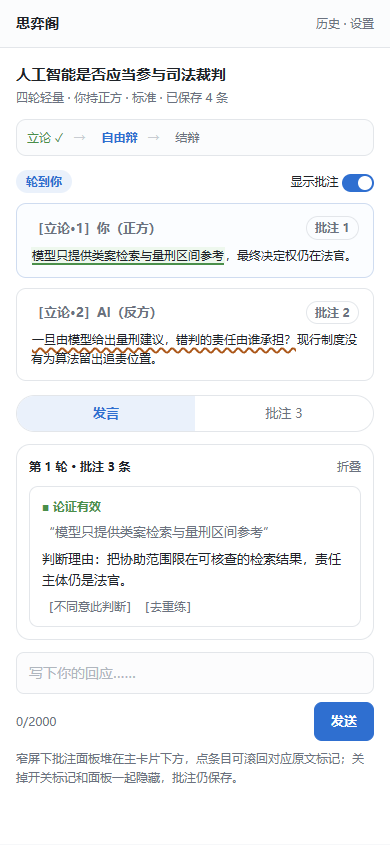
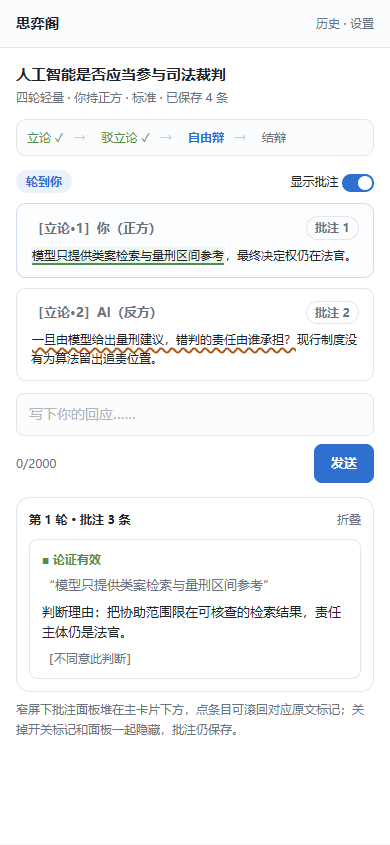
fix: 修正 V2 页面设计与 429 提示并交付并行设计稿

diff --git a/docs/product/ui/mockup/index.html b/docs/product/ui/mockup/index.html
@@ -129,8 +129,8 @@
       <div style="flex:1">
         <div class="pane-title">② 辩题与背景</div>
         <div class="row" style="gap:16px">
-          <label class="small"><span class="dot on" style="width:12px;height:12px"></span> 预设辩题</label>
-          <label class="small"><span class="dot" style="width:12px;height:12px"></span> 自定义辩题（仅本人可见）</label>
+          <label class="small"><span class="dot" style="width:12px;height:12px"></span> 预设辩题</label>
+          <label class="small"><span class="dot on" style="width:12px;height:12px"></span> 自定义辩题（仅本人可见）</label>
         </div>
         <div class="input" style="margin-top:10px">人工智能是否应当参与司法裁判</div>
         <div class="counter">14/200</div>
@@ -143,7 +143,7 @@
           <label class="small"><span class="dot on" style="width:12px;height:12px"></span> 正方</label>
           <label class="small"><span class="dot" style="width:12px;height:12px"></span> 反方</label>
         </div>
-        <p class="note">你持正方 → 你先立论、AI 先结辩</p>
+        <p class="note">四轮轻量练习中，每轮由你先发言，AI 回复。</p>
         <div class="row" style="gap:10px;margin-top:10px">
           <span class="tag">入门</span><span class="tag" style="background:var(--accent-soft);color:var(--accent);border-color:var(--accent)">标准</span><span class="tag">进阶</span>
         </div>
@@ -214,7 +214,7 @@
         <div class="quote">“模型只提供类案检索与量刑区间参考”</div>
         <div class="body"><b>判断理由：</b>把协助范围限在可核查的检索结果上，责任主体仍是法官，回应了对方提出的追责难题。</div>
         <div class="body"><b>改进方向：</b>补一句这个范围由谁核定、出错时如何追溯。</div>
-        <div class="small muted" style="margin-top:6px">［不同意此判断］［去重练］</div>
+        <div class="small muted" style="margin-top:6px">［不同意此判断］</div>
       </div>
 
       <div class="anno">
@@ -222,7 +222,7 @@
         <div class="quote">“一旦由模型给出量刑建议，错判的责任由谁承担？”</div>
         <div class="body"><b>判断理由：</b>把追责问题直接指向制度缺口，反击有力。</div>
         <div class="body"><b>改进方向：</b>补一句现行制度里“谁为法官的错误负责”，再对比算法场景。</div>
-        <div class="small muted" style="margin-top:6px">［不同意此判断］［去重练］</div>
+        <div class="small muted" style="margin-top:6px">［不同意此判断］</div>
       </div>
 
       <div class="anno">
@@ -230,7 +230,7 @@
         <div class="quote">“责任链条没有被切断”</div>
         <div class="body"><b>判断理由：</b>这是结论，但本段没有说明法官如何核对建议。</div>
         <div class="body"><b>改进方向：</b>补一个可核查的动作，例如要求法官书面记录采纳或驳回的理由。</div>
-        <div class="small muted" style="margin-top:6px">［不同意此判断］［去重练］</div>
+        <div class="small muted" style="margin-top:6px">［不同意此判断］</div>
       </div>
 
       <div class="divider"></div>
@@ -318,9 +318,9 @@
     <div class="between"><h3 style="font-size:16px">历史会话</h3><span class="small muted">活动中的会话可继续；已完成可复盘与重练</span></div>
     <table style="margin-top:12px">
       <tr><th>辩题</th><th>模式</th><th>立场</th><th>时间</th><th>阶段 / 状态</th><th>操作</th></tr>
-      <tr><td>人工智能是否应当参与司法裁判</td><td>四轮轻量</td><td>正方</td><td>11-19 21:04</td><td>自由辩 2/10 · 进行中</td><td><span class="btn">继续</span></td></tr>
+      <tr><td>人工智能是否应当参与司法裁判</td><td>四轮轻量</td><td>正方</td><td>11-19 21:04</td><td>自由辩 · 进行中</td><td><span class="btn">继续</span></td></tr>
       <tr><td>短视频是否削弱深度阅读</td><td>四轮轻量</td><td>反方</td><td>11-18 20:11</td><td>已完成</td><td><span class="btn">复盘</span> <span class="btn">重练</span> <span class="btn">PDF</span></td></tr>
-      <tr><td>大学排名是否应当取消</td><td>四轮轻量</td><td>正方</td><td>11-17 19:02</td><td><span class="tag" style="border-color:#e0b4b4;color:#a83a3a">已完成 · 复盘失败</span></td><td><span class="btn">查看</span> <span class="btn">重试复盘</span></td></tr>
+      <tr><td>大学排名是否应当取消</td><td>四轮轻量</td><td>正方</td><td>11-17 19:02</td><td><span class="tag" style="border-color:#e0b4b4;color:#a83a3a">已完成 · 复盘失败</span></td><td><span class="btn">查看复盘</span> <span class="btn">重试复盘</span></td></tr>
       <tr><td>标准化考试是否仍有效</td><td>训练赛</td><td>反方</td><td>11-15 18:40</td><td>结辩 · 进行中</td><td><span class="btn">继续</span></td></tr>
       <tr><td>旧版四轮标准赛（V1）</td><td>四轮标准赛</td><td>正方</td><td>10-30 15:22</td><td>已完成</td><td><span class="btn">查看原文</span></td></tr>
     </table>
@@ -385,7 +385,7 @@
       <h3 style="font-size:15px">人工智能是否应当参与司法裁判</h3>
       <p class="small muted" style="margin:2px 0 12px">四轮轻量 · 你持正方 · 标准 · 已保存 4 条</p>
       <div class="phasetrack" style="padding:8px 10px;overflow:hidden">
-        <span class="ph done" style="font-size:12px">立论 ✓</span><span class="ph now" style="font-size:12px">自由辩</span><span class="ph" style="font-size:12px">结辩</span>
+        <span class="ph done" style="font-size:12px">立论 ✓</span><span class="ph done" style="font-size:12px">驳立论 ✓</span><span class="ph now" style="font-size:12px">自由辩</span><span class="ph" style="font-size:12px">结辩</span>
       </div>
       <div class="row" style="justify-content:space-between;align-items:center;margin-bottom:10px">
         <span class="badge">轮到你</span><span class="small">显示批注 <span class="switch sm"></span></span>
@@ -394,18 +394,17 @@
         <p class="small"><span class="marker m-strength">模型只提供类案检索与量刑区间参考</span>，最终决定权仍在法官。</p></div>
       <div class="msg"><h4><span>［立论·2］AI（反方）</span><span class="tag">批注 2</span></h4>
         <p class="small"><span class="marker m-gap">一旦由模型给出量刑建议，错判的责任由谁承担？</span>现行制度没有为算法留出追责位置。</p></div>
-      <div class="seg" style="margin-top:14px"><div class="on">发言</div><div>批注 3</div></div>
-      <div class="sheet">
+      <div class="input" style="margin-top:12px;color:#b0b6be">写下你的回应……</div>
+      <div class="between" style="margin-top:8px"><span class="small muted">0/2000</span><span class="btn primary">发送</span></div>
+      <div class="sheet" style="margin-top:14px">
         <div class="between"><span class="small" style="font-weight:700">第 1 轮 · 批注 3 条</span><span class="small muted">折叠</span></div>
         <div class="anno" style="margin-top:10px">
           <div class="head"><span class="lbl s">■ 论证有效</span></div>
           <div class="quote">“模型只提供类案检索与量刑区间参考”</div>
           <div class="body small">判断理由：把协助范围限在可核查的检索结果，责任主体仍是法官。</div>
-          <div class="small muted" style="margin-top:6px">［不同意此判断］［去重练］</div>
+          <div class="small muted" style="margin-top:6px">［不同意此判断］</div>
         </div>
       </div>
-      <div class="input" style="margin-top:12px;color:#b0b6be">写下你的回应……</div>
-      <div class="between" style="margin-top:8px"><span class="small muted">0/2000</span><span class="btn primary">发送</span></div>
       <p class="note">窄屏下批注面板堆在主卡片下方，点条目可滚回对应原文标记；关掉开关标记和面板一起隐藏，批注仍保存。</p>
     </div>
   </div>

diff --git a/frontend/src/api/client.test.ts b/frontend/src/api/client.test.ts
@@ -109,15 +109,36 @@ describe('统一业务 client', () => {
   })
 
   // 429 三类原因各自有独立文案：分钟防刷可稍后重试，并发占用要等当前生成，
-  // 日额度用尽当日不再重试，不能都显示成“请求过于频繁”。
+  // 日额度用尽只保留受控提示。日额度由服务端按 UTC 日重置，“明天再试”在中国
+  // 时区 07:59 可能一分钟后即可用；Retry-After 只是额度窗口重开的秒数，
+  // 所以该码不拼接“N 秒后重试”，但仍把秒数保留在 metadata（不自动重试）。
   it.each([
-    ['rate_limited', '请求过于频繁'],
-    ['generation_busy', '生成服务繁忙'],
-    ['daily_quota_exhausted', '今日生成次数已用完'],
-  ])('429 按业务码给出可区分的提示：%s', async (code, expected) => {
-    fetchMock.mockResolvedValue(failure(429, code, { 'Retry-After': '30' }))
+    ['rate_limited', '请求过于频繁，请稍后手动重试。'],
+    ['generation_busy', '生成服务繁忙，请稍后手动重试。'],
+    ['daily_quota_exhausted', '今日生成次数已用完，可查看历史。'],
+  ])('429 无 Retry-After 时展示完整受控文案：%s', async (code, expected) => {
+    fetchMock.mockResolvedValue(failure(429, code))
     await expect(createApiClient().request('/api/v1/example', ok)).rejects.toMatchObject({
-      status: 429, code, message: expect.stringContaining(expected),
+      kind: 'http', status: 429, code, retryAfterSeconds: undefined, message: expected,
+    })
+  })
+
+  it.each([
+    ['rate_limited', '请求过于频繁，请稍后手动重试。请在 12 秒后重试。', 12],
+    ['generation_busy', '生成服务繁忙，请稍后手动重试。请在 12 秒后重试。', 12],
+    ['daily_quota_exhausted', '今日生成次数已用完，可查看历史。', 12],
+  ])('429 带有效 Retry-After 时文案按业务码区分、秒数入 metadata：%s', async (code, expected, retryAfterSeconds) => {
+    fetchMock.mockResolvedValue(failure(429, code, { 'Retry-After': '12' }))
+    await expect(createApiClient().request('/api/v1/example', ok)).rejects.toMatchObject({
+      kind: 'http', status: 429, code, retryAfterSeconds, message: expected,
+    })
+  })
+
+  it('日额度用尽的 Retry-After 不合约时只忽略秒数，不改受控文案', async () => {
+    fetchMock.mockResolvedValue(failure(429, 'daily_quota_exhausted', { 'Retry-After': 'tomorrow' }))
+    await expect(createApiClient().request('/api/v1/example', ok)).rejects.toMatchObject({
+      kind: 'http', status: 429, code: 'daily_quota_exhausted', retryAfterSeconds: undefined,
+      message: '今日生成次数已用完，可查看历史。',
     })
   })
 

diff --git a/frontend/src/api/client.ts b/frontend/src/api/client.ts
@@ -116,7 +116,9 @@ const errorMessages: Record<string, string> = {
   request_too_large: '请求内容过大，请缩短后重试。',
   rate_limited: '请求过于频繁，请稍后手动重试。',
   generation_busy: '生成服务繁忙，请稍后手动重试。',
-  daily_quota_exhausted: '今日生成次数已用完，可查看历史或明天再试。',
+  // 日额度按服务端 UTC 日重置，“明天再试”在中国时区 07:59 可能一分钟后即可用，
+  // 因此只保留受控提示；Retry-After 仍解析进 metadata，但不拼进文案（不自动重试）。
+  daily_quota_exhausted: '今日生成次数已用完，可查看历史。',
   dependency_unavailable: '服务暂时不可用，请稍后手动重试。',
   internal_error: '服务发生错误，请稍后手动重试。',
   model_error: 'AI 回复生成失败，请查询会话状态。',
@@ -137,7 +139,11 @@ function businessError(value: unknown, response: Response, id: string): ApiError
   const seconds = header !== null && /^\d+$/.test(header) ? Number(header) : NaN
   const retryAfterSeconds = Number.isSafeInteger(seconds) && seconds >= 0 ? seconds : undefined
   const message = Object.hasOwn(errorMessages, value.error.code) ? errorMessages[value.error.code]! : '请求失败，请稍后手动重试。'
-  return new ApiError('http', retryAfterSeconds === undefined ? message : `${message}请在 ${retryAfterSeconds} 秒后重试。`, {
+  // 日额度用尽不拼重试提示：该码的 Retry-After 是 UTC 日窗口重开的秒数，
+  // 按秒提示会让人误以为马上能重试；秒数仍作为 metadata 保留，供上层判断。
+  const waits = value.error.code !== 'daily_quota_exhausted'
+  const text = retryAfterSeconds === undefined || !waits ? message : `${message}请在 ${retryAfterSeconds} 秒后重试。`
+  return new ApiError('http', text, {
     status: response.status, code: value.error.code, requestId: id, retryAfterSeconds,
   })
 }

diff --git a/backend/internal/debate/model.go b/backend/internal/debate/model.go
@@ -161,14 +161,14 @@ type Turn struct {
 	// 不属于正式轮次状态机：它不参与 generating/completed/failed 的判断，
 	// 也不改变完成的轮数或会话状态。默认 false，旧行保持原状。
 	// 该字段不进入 TurnDTO，读取批注统一走独立接口。
-	AnnotationEligible bool       `json:"-" gorm:"column:annotation_eligible"`
-	ModelName          *string    `json:"-"`
-	PromptVersion      *string    `json:"-"`
-	InputTokens        *uint64    `json:"-"`
-	OutputTokens       *uint64    `json:"-"`
-	LatencyMS          *uint64    `json:"-"`
-	CreatedAt          time.Time  `json:"-"`
-	Messages           []Message  `json:"-" gorm:"-"`
+	AnnotationEligible bool      `json:"-" gorm:"column:annotation_eligible"`
+	ModelName          *string   `json:"-"`
+	PromptVersion      *string   `json:"-"`
+	InputTokens        *uint64   `json:"-"`
+	OutputTokens       *uint64   `json:"-"`
+	LatencyMS          *uint64   `json:"-"`
+	CreatedAt          time.Time `json:"-"`
+	Messages           []Message `json:"-" gorm:"-"`
 }
 
 func (Turn) TableName() string { return "debate_turns" }

diff --git a/backend/internal/debate/repository.go b/backend/internal/debate/repository.go
@@ -336,7 +336,8 @@ func (r *Repository) ClaimRetry(ctx context.Context, uid, debateID, turnID, expe
 	}
 	return
 }
-func currentTurn(tx *gorm.DB, d Debate, t Turn) (Turn, error) {	var current Turn
+func currentTurn(tx *gorm.DB, d Debate, t Turn) (Turn, error) {
+	var current Turn
 	e := tx.Clauses(clause.Locking{Strength: "UPDATE"}).Where("id = ? AND debate_id = ?", t.ID, d.ID).First(&current).Error
 	if e != nil {
 		return current, dependency(e, false)
@@ -365,6 +366,7 @@ func metadata(usage ai.Usage, m ai.Metadata) map[string]any {
 	}
 	return values
 }
+
 // Complete 提交正式轮次。eligible 决定本次完成 UPDATE 是否同时写入批注资格：
 // 资格标志只是“本次切片允许生成批注”的标记，不参与轮次状态、完成轮数或会话状态的任何计算。
 func (r *Repository) Complete(ctx context.Context, uid uint64, d Debate, t Turn, result ai.Result, eligible bool) (detail Detail, err error) {

diff --git a/docs/product/ui/01-global.md b/docs/product/ui/01-global.md
@@ -29,7 +29,7 @@
 
 | 数据 | 产生处 | 消费处 | 事实源 | 状态 |
 | --- | --- | --- | --- | --- |
-| 模式、立场、强度、流派 | 开始练习（创建时） | 工作台、复盘、历史、PDF | 服务端创建结果，创建后不可改 | 立场与流派 `[已实现]`；模式、强度目标态 |
+| 模式、立场、强度 | 开始练习（创建时） | 工作台、复盘、历史、PDF | 服务端创建结果，创建后不可改 | 立场 `[已实现]`；模式、强度目标态 |
 | 辩题与背景快照 | 开始练习（创建时） | 工作台、历史、复盘、PDF | 会话内快照，创建后不可改 | `[已实现]` |
 | 当前阶段、回合、发言方 | 服务端推进 | 工作台、历史 | 服务端权威阶段进度（[PRD §3.7](../PRD.md#37-目标状态模型待实施技术目标)） | 训练赛目标态 |
 | 批注、异议、争点卡 | 分析结果与用户编辑 | 工作台、复盘、PDF | 服务端保存值；人工编辑优先（[PRD §6.6](../PRD.md#66-人工编辑与-ai-更新的优先级)） | 批注 `[已实现]`；异议、争点卡目标态 |
@@ -38,6 +38,7 @@
 | 模型服务配置 | 设置页提交 | 服务端调用链 | 服务端按用户隔离保管；浏览器只保留脱敏状态 | 目标态 |
 | 额度与并发状态 | 服务端 | 设置页、工作台错误提示 | 服务端计数（展示口径见 [设置 §7](06-settings.md#7-待决与不做)） | 计数已实现；展示目标态 |
 
+- `[已确认]` 四种辩手流派在 V2 暂缓。保留 V1 的选择、代码、历史字段与数据，见 [PRD §13](../PRD.md#13-暂缓项与后续需求池)。
 - `[已确认]` 前端不得用本地缓存、SSE 片段或地址栏参数推导阶段与回合；这些只用于展示与恢复定位。
 - `[设计建议]` 跨页只认服务端返回的会话 ID 与快照，页面之间不通过前端状态传递业务字段。
 
@@ -46,15 +47,15 @@
 | 区域 | 桌面（建议 ≥1100 px） | 移动/窄屏（建议 <900 px） |
 | --- | --- | --- |
 | 导航 | 顶栏 + 主视图切换 | 顶栏 + 折叠菜单 |
-| 工作台 | 双列：发言流主列 + 右栏（批注/争点卡） | 单列堆叠：批注面板在主卡片下方，用分段控件切换“发言 / 批注”；训练赛场中另有“争点”分段，四轮练习赛后集中整理 |
+| 工作台 | 双列：发言流主列 + 右栏（批注/争点卡） | 单列堆叠：主卡片含发言流和输入区，批注面板在下方；训练赛场中可另设争点区块，四轮练习赛后集中整理 |
 | 批注 | 右栏列表，点击标记定位并展开 | 主卡片下方独立区块，点条目滚回原句 |
-| 争点卡 | 右栏卡片列表 | 训练赛为分段后的独立区块；四轮练习不设场中入口 |
+| 争点卡 | 右栏卡片列表 | 训练赛为独立区块；四轮练习不设场中入口 |
 | 复盘 | 两列：四维与雷达 + 争点／建议 | 单列，雷达置顶＋维度卡片 |
 | 输入区 | 主列底部固定 | 底部吸底，键盘弹起时保持可见 |
 
 - `[设计建议]` 断点数值、栏宽与折叠方式均为设计建议，须在视觉设计阶段验证；当前实现用 1000 px 切换双列（见 [工作台](03-workspace.md#3-整体布局)）。
 - `[已确认]` 无论桌面或移动，**语义不得只靠颜色**：批注类别同时给线型与文字标签（[PRD §5.3](../PRD.md#53-标记形式颜色--线型--文字标签q41)）。
-- `[已确认]` 移动端批注为**主卡片下方的单列堆叠**，不做覆盖正文的抽屉（2026-11-19 负责人确认）；AC-V2-14 的“移动底部面板”与本描述同义，按本描述理解。批注与原文需同屏对照，抽屉会遮住原文。
+- `[已确认]` 移动端批注为**主卡片下方的单列堆叠**，不做覆盖正文的抽屉（2026-11-19 负责人确认）；AC-V2-14 采用相同布局。批注与原文需同屏对照，抽屉会遮住原文。
 
 ## 5. 页面清单
 

diff --git a/docs/product/ui/02-entry.md b/docs/product/ui/02-entry.md
@@ -52,8 +52,8 @@
 │                                                                       │
 │ ③ 立场与强度                                                         │
 │  你的立场：( ) 正方（支持）   ( ) 反方（反对）                       │
-│   说明：你持正方→你先立论、AI 先结辩                                 │
-│         你持反方→AI 先立论、你先结辩                                 │
+│   四轮轻量：无论正反方，每轮都由你先发言、AI 回复                   │
+│   完整训练赛：正方先立论，反方先结辩                                 │
 │  训练强度：( ) 入门   ( ) 标准   ( ) 进阶    本场不可切换            │
 │   入门：表达直白、每次聚焦一个主要问题                                │
 │   标准：围绕主要争点反驳、追问、给反例                                │
@@ -61,8 +61,8 @@
 │   提示：三档都认真回应、允许合理让步、不编造证据                      │
 │                                                                       │
 │ ④ 确认开局（尚未创建会话）                                           │
-│   模式：完整训练赛    辩题：……（自定义 · 仅本人可见）                │
-│   立场：反方（AI 先立论）    强度：标准                               │
+│   模式：四轮轻量练习  辩题：……（自定义 · 仅本人可见）                │
+│   立场：反方（每轮由你先发言）    强度：标准                           │
 │   提示：确认创建后固定以上四项，本场不可修改；创建本身不调用模型      │
 │              [返回修改]  [确认创建（只创建，不调模型）]               │
 └───────────────────────────────────────────────────────────────────────┘
@@ -112,11 +112,11 @@
 | 确认摘要 | `[设计建议]` 只读列出模式／辩题／立场／强度四项；`[已确认]` 创建后四项固定（§2.1、§4.3） | 无失败态；摘要与已选项不一致视为表单缺陷，须修正后再创建 |
 | 确认创建 | `[已实现]` 只创建、不调用模型（V2-03）；不追加审题或锦囊调用 | `[已实现]` 结果不明时提示先查历史，禁止自动重发（V2-03） |
 | 获取赛前锦囊 | `[已确认]` 用户主动点击才发起一次显式模型调用；进入、刷新、返回都不自动生成（§7） | `[已确认]` 失败只轻提示，不阻塞开赛、不自动重试 |
-| 开始发言 | `[设计建议]` 用户持反方时由服务端按 AI 先立论推进，页面进入工作台等待 | `[已确认]` 会话不存在或不属于本人统一按不存在处理（§11.1） |
+| 开始发言 | `[设计建议]` 完整训练赛中，用户持反方时由服务端按 AI 先立论推进，页面进入工作台等待 | `[已确认]` 会话不存在或不属于本人统一按不存在处理（§11.1） |
 
 - `[设计建议]` 字数计数在输入时实时更新，提交以服务端校验为准；计数口径已按解码后 Unicode 码点统一 `[已实现]`（V2-03）。
 - `[设计建议]` 在自定义题区域明示“默认仅本人可见、不进入公共题库”，避免用户误以为会公开。
-- `[设计建议]` 立场说明按所选立场动态改写，避免用户到工作台才发现由 AI 先开场。
+- `[设计建议]` 按所选模式与立场更新发言顺序说明，避免用户到工作台才发现由 AI 先开场。
 
 ## 5. 状态与恢复
 

diff --git a/docs/product/ui/07-common-states.md b/docs/product/ui/07-common-states.md
@@ -83,7 +83,7 @@
 | 模型失败 502/503/504 `[已确认]` | 区分超时、不可用、输出无效三类原因 | 手动重试或保存退出 | 把失败当有效结果、自动换模型或换 Key |
 | 429·频率限制 `[已实现]` | “请求过于频繁”，可显示服务端给出的等待时间 | 按 `Retry-After` 手动重试 | 编造窗口长度、自动重发 |
 | 429·并发占用（本人或全局）`[已实现]` | “当前有生成正在进行”，不透露他人身份 | 按服务端给出的时间等待后手动重试 | 说成“额度已用完”、自动排队 |
-| 429·日额度用尽 `[已确认]` | “今日次数已用完”，指向可查看的历史或恢复入口 | 按服务端给出的时间等待、查看历史 | 编造重置时点、说成“模型故障”、承诺立即恢复 |
+| 429·日额度用尽 `[已确认]` | “今日生成次数已用完，可查看历史。” | 查看历史；恢复时间以服务端为准 | 编造重置时点、说成“模型故障”、承诺立即恢复 |
 | 额度限制（非 429）`[已确认]` | 说明是应用侧额度限制并给恢复建议 | 按服务端提示操作 | 说成“模型故障”、承诺立即恢复 |
 | 部分分析失败 `[已确认]` | 保留成功部分，逐项标出失败项 | 只补失败部分 | 整场重生成、覆盖成功结果或人工编辑 |
 | 定位失败 `[已确认]` | 标为“待核对”，不高亮 | 查看附近原文、手动定位 | 猜一句高亮、静默隐藏 |
@@ -100,8 +100,9 @@
 | --- | --- | --- |
 | `unauthenticated` | 登录失效 401 | `[已实现]` |
 | `not_found` | 不存在或越权 404，不区分是否存在 | `[已实现]` |
-| `rate_limited` | 429·频率限制或日额度用尽 | `[已实现]` 文案共用，须拆开（见 §3.3） |
+| `rate_limited` | 429·频率限制 | `[已实现]` |
 | `generation_busy` | 429·并发占用 | `[已实现]` |
+| `daily_quota_exhausted` | 429·日额度用尽 | `[已实现]` 接口与受控文案 |
 | `model_timeout` | 模型失败·超时 | `[已实现]` |
 | `model_unavailable` | 模型失败·不可用 | `[已实现]` |
 | `model_error` | 模型失败·输出无效 | `[已实现]` |
@@ -115,7 +116,7 @@
 ### 3.3 恢复纪律
 
 - `[已确认]` **429 必须区分三类**：频率限制、并发占用（本人或全局）、日额度用尽。三者恢复方式不同，不得统一提示为“其他生成进行中”，也不得把并发占用说成额度耗尽；[PRD §19.2](../PRD.md#192-与服务额度的边界) 要求应用额度与并发分别说明。
-- `[待决]` 服务端目前对“频率限制”与“日额度用尽”返回同一业务码，界面如何在不猜测的前提下区分二者，需接口给出可区分信号；本文不定该接口。
+- `[已实现]` 三种业务码见 [API 错误码](../../api/API.md)；现有客户端区分受控提示。日额度按 UTC 日计算，界面保留历史入口提示，客户端仍读取服务端等待秒数。专用页面动作按本节状态设计验收。
 - `[已确认]` **只展示服务端可知的恢复信息**：`Retry-After` 或服务端明确返回的时间口径才可展示；服务端没说时不编造“X 分钟后重试”，也不猜“每日 UTC 0 点重置”这类具体时点。
 - `[已确认]` **统一纪律**：不自动重试、不隐式额外调用、不覆盖成功数据与人工编辑（[PRD §10.3](../PRD.md#103-分析失败与重试q33)）。
 - `[已确认]` **“停止等待”只停本地等待**：文案须说明不承诺取消上游调用或不计费（[PRD §3.6](../PRD.md#36-生成失败与放弃规则q11q38)）。

diff --git a/docs/product/ui/03-workspace.md b/docs/product/ui/03-workspace.md
@@ -24,7 +24,7 @@
 | 演示图 | 构图 | 展示什么 |
 | --- | --- | --- |
 | ![辩论工作台桌面线框](mockup/shots/02-workspace.png) | 1280 px 级双列 | 左发言流右批注栏；辩题与立场快照、阶段轨、发言方提示、正文四类标记、逐轮分组的批注解释、主卡片上的“显示批注”开关 |
-| ![辩论工作台窄屏线框](mockup/shots/06-mobile.png) | 390 px 级单列 | 阶段轨压缩、正文标记、“发言 / 批注”分段切换、批注面板堆在主卡片下方（四轮练习本次不展示争点分段，争点卡赛后集中整理）、输入区 |
+| ![辩论工作台窄屏线框](mockup/shots/06-mobile.png) | 390 px 级单列 | 压缩阶段轨、正文标记和输入区位于主卡片内，批注面板堆在下方；四轮练习的争点卡在赛后集中整理 |
 
 - `[设计建议]` 上表只描述构图与用途：两张图都是**线框示意**，不是视觉稿、不代表已实现；间距、配色、控件形态、示例辩题与批注文字均为虚构样例（见 [mockup 说明](mockup/README.md)）。图中发言次序按 [PRD §3.2](../PRD.md#32-双方完整发言序列按用户所选立场) 写（用户持正方时步骤 1 是用户立论、步骤 2 是 AI 反方立论）；2026-11-19 已修正初版图中把 AI 画在步骤 1 的错误，并与文字线框对齐。
 - `[已实现]` 窄屏把批注面板**堆在主卡片下方**，不覆盖正文、不是可上拉的抽屉；开关隐藏时面板与标记一起消失。
@@ -64,13 +64,13 @@
 | 开关位置 | 主卡片头部 | 主卡片头部，与阶段轨同一屏内 |
 | 输入区 | 主列底部 | 主卡片底部，批注面板在其之后 |
 
-- `[设计建议]` 上述区域划分与下表栏位均可调整：双列在可用宽度 ≥1000 px 时启用，右栏占 30% 且不小于 280 px；窄屏单列堆叠，必要时可把批注面板提到输入区之前。断点与栏宽须在视觉设计阶段验证，本文不锁定。
-- `[已实现]` 当前实现在 1000 px 断点切换双列，右栏 `minmax(280px, 30%)`；窄屏时面板排在整个主卡片之后（含输入区），尚未做“提到输入区之前”的调整。
+- `[设计建议]` 桌面双列可从 1000 px 起，右栏占 30% 且最窄 280 px。断点与栏宽留待视觉设计验证。
+- `[已实现]` 当前实现在 1000 px 断点切换双列，右栏 `minmax(280px, 30%)`；窄屏时面板排在整个主卡片之后（含输入区）。
 - `[已确认]` 工作台按会话 ID 直达，刷新后由服务端状态重建，不依赖本地暂存（[全局信息架构 §2](01-global.md#2-视图与路由)）。
 
 ## 4. 阶段轨与头部状态（P6a）
 
-`[已确认]` 当前阶段、发言方、回合数、消息条数都来自服务端；用户选反方时 AI 先开场。
+`[已确认]` 当前阶段、发言方、回合数、消息条数都来自服务端；完整训练赛中用户选反方时 AI 先开场；四轮轻量练习每轮由用户先发言。
 
 ```
 ┌ 辩题：人工智能是否应当参与司法裁判 ─────────────────────────────┐

diff --git a/docs/planning/v2-parallel/01-training-flow.md b/docs/planning/v2-parallel/01-training-flow.md
@@ -1,0 +1,21 @@
+# 01 训练赛入口与阶段推进
+
+范围为 V2-01、V2-02。对应 [PRD §2–3](../../product/PRD.md#2-训练模式与入口)、[开始练习](../../product/ui/02-entry.md)与[工作台](../../product/ui/03-workspace.md)。验收重点为 AC-V2-02～09、23、31 中与赛制、步骤和恢复有关的部分。
+
+## 设计与边界
+
+- 入口并列展示四轮轻量和完整训练赛。首次默认轻量，训练赛直接可选。复用 V2-03 辩题快照并在创建前确认立场和模式，创建动作零模型调用。会话创建后固定模式；四轮仍使用现行轮次规则。
+- 训练赛由服务端记录权威的阶段、已完成自由辩回合、下一步骤和发言方。正式发言记录有稳定 ID、全局步骤序号、阶段与阶段内序号。前端从服务端读取进度，SSE 只承载增量展示，刷新和断线后重新查已保存状态。
+- 顺序按 PRD 执行。立论和驳立论由正方先，结辩由反方先，自由辩每回合由用户先。覆盖 AI 开场、AI 连说两步和用户连说两步。1 回合时共 8 条正式发言，10 回合时共 26 条。
+- 进入结辩需要至少一个完整回合。第 10 回合后只提供显式推进。推进和提交发言按版本竞争，只有一个成功；推进可幂等重放、零模型调用。失败放弃严格按 PRD §3.6，仅用于其明确允许的自由辩情形。失败或临时流片段不计正式发言。
+- 普通与 SSE 复用同一认领、版本、租约与配额内核。提交成功后才发布正式保存和 `done`。旧会话按原模式读写，分支选择来自服务端会话记录。
+
+## 给并行模块的输入
+
+只读提供会话 ID、模式、权威完赛状态与已提交发言快照。供争点更新消费的事件语义为双方驳立论完成、完整自由辩回合完成、结辩完成；可用会话及完成位置去重。具体 DTO、存储和事件分发方式由本组设计评估，与整合负责人统一进 API 和架构文档。
+
+## 执行与验收
+
+1. 先做双方立场的状态转换表，再用表驱动测试覆盖 0、1、10、越界、失败放弃、AI 开场与跨阶段连续同方。
+2. 在 Go service/repository 内复用认领路径。验证同幂等键重放、发言与结束并发、租约恢复和最终写失败，跑 `go test -race ./...`。
+3. 入口与工作台用 Mock 验证首次默认、两模式标识、断线重查和按钮禁用。检查旧四轮与历史三轮仍能继续、旧记录不重写。浏览器用例需覆盖两种用户立场。

diff --git a/docs/planning/v2-parallel/README.md b/docs/planning/v2-parallel/README.md
@@ -1,0 +1,16 @@
+# V2 并行设计与交接
+
+基线为 `v2-ui-design-rewrite@0a8c5c4`，含已签收的 V2-03、V2-04 切片。以下四份方案供独立评估、细化和编写 Fake/Mock 验收用例。正式实施须按 [TASKS](../TASKS.md#产品-v2-待分配任务未开始) 分配负责人并取得相应授权。
+
+| 设计 | 负责的功能 | 可独立推进的部分 | 真实链路接入条件 |
+| --- | --- | --- | --- |
+| [01 训练赛入口与阶段](01-training-flow.md) | V2-01、V2-02 | 正反双方步骤、旧数据兼容、状态机与入口用例 | 先锁定阶段读写契约，并在隔离库验证 |
+| [02 争点卡与原文定位](02-issue-cards.md) | V2-06、V2-07 | 用 V2-04 锚点和四轮完赛夹具完成卡片与编辑设计 | 训练赛自动更新等 01 提供已提交的阶段事件 |
+| [03 局部重练](03-repractice.md) | V2-08 | 用四轮完赛与本人选段夹具设计主路径 | 批注入口做可选接入，等统一锚点读法 |
+| [04 赛后复盘与四维](04-review.md) | V2-10、V2-11、V2-13 | 用完赛会话和已保存分析夹具设计独立复盘 | 雷达等四维结果定型。训练赛读入等 01 提供权威完赛状态 |
+
+- 每份方案由一名负责人端到端维护。并行可写任务各用一个独立 worktree，单独运行单元测试；共享隔离数据库或端口须串行使用。
+- 四组先在各自模块和夹具内工作。会话通用 DTO、API/OpenAPI、公共页面、路由、Gate、迁移编号由整合负责人统一落笔与分号段，避免并行争写。持久化方案落定并验证后，再登记接口和迁移。
+- 四轮完赛可先用现行会话状态验证，V1 的 `standard_4` 和历史 `quick_3` 继续走原赛制。训练赛接入只消费 01 提供的服务端进度、保存后的发言与完赛信号。
+- 先集成 01 的共享契约，再接各消费方。02 的阶段触发和 04 的争点卡跳转可在集成期接入；03 首版主路径可单独验证。PDF、历史三态、训练强度、策略锦囊、异议与模型设置按各自 TASKS 条目排期。
+- 回归记录分开写明 Fake/Mock、隔离库、浏览器和真实模型样例。产品规格与 AC 以 [PRD V2](../../product/PRD.md) 为准。

diff --git a/docs/planning/v2-parallel/04-review.md b/docs/planning/v2-parallel/04-review.md
@@ -1,0 +1,17 @@
+# 04 赛后复盘与四维训练参考
+
+范围为 V2-13、V2-10、V2-11，对应 [PRD §8](../../product/PRD.md#8-赛后复盘与四维训练参考)、[完赛复盘](../../product/ui/04-review.md)及 AC-V2-21、22、24、26；失败保留沿用 PRD §10.3。PDF 后续由 V2-14 消费已保存的结果。
+
+## 设计与边界
+
+- 正式会话完赛后即可读原文与已保存分析。复盘单独保存和恢复，有未开始、生成中、成功、失败状态。首版设计以用户显式请求为例，自动发起策略保持待决。重试只补失败部分并保留成功结果、已有批注与人工编辑。
+- 复盘显示主要争点、论证优点和少量优先改进建议，各条尽量带同场原文引用。先用四轮夹具和已保存结果独立实现页面，争点卡或重练模块接入后再替换相应入口。
+- 四维为论证结构、回应针对性、证据使用、概念与范围。每维有行为依据、具体验证原文和改进提示，档级为 1–4 或观察不足。缺引用或观察机会不足时标观察不足，不计为 0 或 1 档。四维标准对三档训练强度相同。
+- 先定 V2 四维数据形状，再做雷达。缺项保留空缺或显示文字卡片，移动端保留可读维度与图表入口，点击可查原文、批注或重练。兼容旧总结读取，0–100 的旧格式按原语义处理。PDF 只读复盘及原文快照。
+- 对 Q49 准备人工标注样例与判定表，记录一致与分歧。Fake 能验证数据结构与恢复，真实样例的质量结论需单独授权和记录。旧总结兼容和结果落库按 TE-08 评估。
+
+## 执行与验收
+
+1. 先用 Fake 锁定“完赛但复盘失败”的独立状态。验证刷新、只补失败、重复点击、已成功内容和人工编辑原样可读。
+2. 做四维入参和结果校验，覆盖四维齐全、部分观察不足、全部观察不足、引用越权或失效、旧总结可读。再实现雷达联动、文本回退与窄屏。
+3. 模拟 03 尚未接入及 02 定位降级的状态，确保原文与建议仍可读。01 阶段契约稳定后，再验训练赛完赛、恢复与复盘入口。
